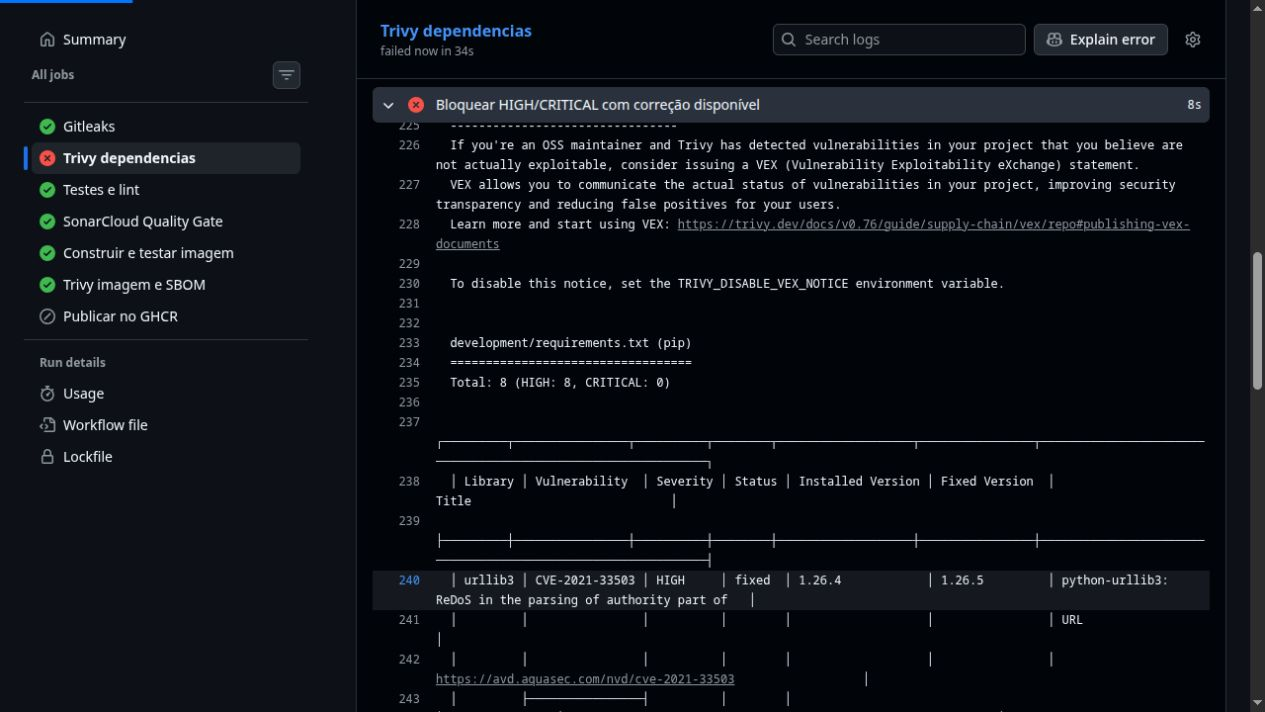
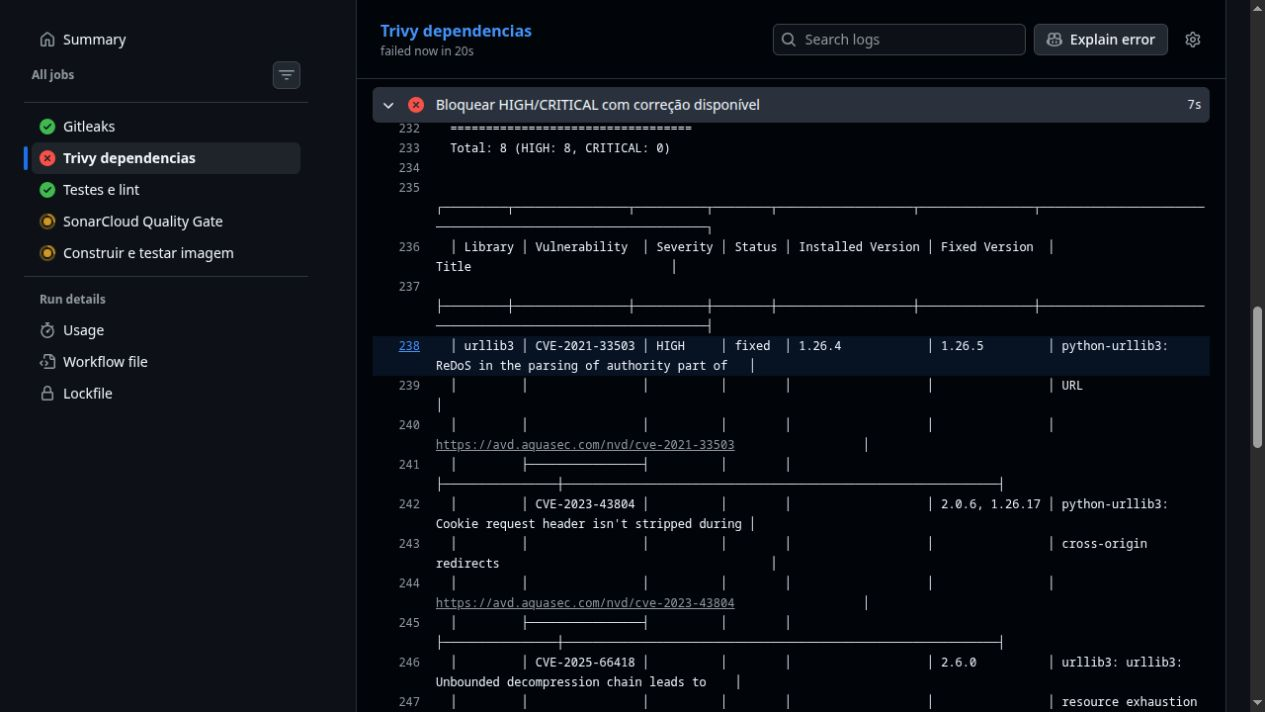
fix: corrigir urllib3 e atualizar demonstracao de seguranca

diff --git a/docs/evidencias.md b/docs/evidencias.md
@@ -6,14 +6,13 @@ Data: 27/10/2026 (America/Sao_Paulo).
 
 - [Repositório](https://github.com/youserz/devopsPratica).
 - [Workflow YAML](https://github.com/youserz/devopsPratica/blob/main/.github/workflows/ci.yml).
-- [PR de implementação #1](https://github.com/youserz/devopsPratica/pull/1), integrado após aprovação dos checks.
 - [Primeira execução](https://github.com/youserz/devopsPratica/actions/runs/40595101752).
 - [Execução da main com publicação no GHCR](https://github.com/youserz/devopsPratica/actions/runs/40595459804).
 - Projeto SonarCloud: [youserz_devopsPratica](https://sonarcloud.io/summary/new_code?id=youserz_devopsPratica).
 
 ## Bloqueio de vulnerabilidade corrigível
 
-[PR #2](https://github.com/youserz/devopsPratica/pull/2), branch `demonstracao-cve`.
+[PR #3](https://github.com/youserz/devopsPratica/pull/3), branch `demonstracao-seguranca`.
 
 A versão `urllib3==1.26.4` foi introduzida apenas nas dependências de desenvolvimento.
 A CVE-2021-33503 tem severidade HIGH e correção em 1.26.5, conforme o
@@ -21,9 +20,9 @@ A CVE-2021-33503 tem severidade HIGH e correção em 1.26.5, conforme o
 O relatório encontrou também outras vulnerabilidades HIGH nessa versão antiga.
 A correção usa 2.8.0, evitando restaurar apenas a correção mínima de uma CVE.
 
-- Commit vulnerável com scanner corrigido: `650a8f095742a2a4ad95724ca2fda120053be116`.
-- [Execução reprovada](https://github.com/youserz/devopsPratica/actions/runs/40595833798).
-- [Log Trivy](https://github.com/youserz/devopsPratica/actions/runs/40595833798/job/122511386443).
+- Commit vulnerável: `276743f6061b881e53bee8e3a59321e35a1602d0`.
+- [Execução reprovada](https://github.com/youserz/devopsPratica/actions/runs/40608578318).
+- [Log Trivy](https://github.com/youserz/devopsPratica/actions/runs/40608578318/job/122554182342).
 
 Trecho real da execução:
 
@@ -86,17 +85,5 @@ O scanner aguarda o Quality Gate e retorna falha se ele reprovar.
 
 ## Aprovação após corrigir a dependência
 
-A versão vulnerável foi restaurada para `urllib3==2.8.0` no mesmo PR.
-- Commit corrigido: `57d0902`.
-- [Execução aprovada após correção](https://github.com/youserz/devopsPratica/actions/runs/40596202621).
-- [Trivy dependências aprovado](https://github.com/youserz/devopsPratica/actions/runs/40596202621/job/122512621822).
-- [SBOM e relatórios da versão corrigida](https://github.com/youserz/devopsPratica/actions/runs/40596202621#artifacts).
-
-Todos os seis checks obrigatórios passaram. O job de publicação foi ignorado por
-ser um PR, conforme a regra de publicação exclusiva de pushes na main.
-
-![Execução aprovada após corrigir urllib3](../evidencias/devsecops/correcao-aprovada.png)
-
-![Artifacts da execução corrigida](../evidencias/devsecops/artifacts-corrigidos.png)
-
-![Checks obrigatórios na proteção da main](../evidencias/devsecops/protecao-main.png)
+A dependência foi restaurada para `urllib3==2.8.0` no mesmo PR #3.
+As execuções e artifacts estão disponíveis na aba Checks do PR.

diff --git a/docs/README.md b/docs/README.md
@@ -35,7 +35,7 @@ Artifacts: `gitleaks`, `cobertura`, `trivy-dependencias`, `trivy-imagem`, `sbom-
 ## Demonstração
 
 As evidências reais e links de execuções estão em [evidencias.md](evidencias.md).
-O PR #2 da branch `demonstracao-cve` introduziu urllib3 1.26.4 no arquivo de
+O PR #3 da branch `demonstracao-seguranca` introduziu urllib3 1.26.4 no arquivo de
 dependências de desenvolvimento para demonstrar o bloqueio. CVE-2021-33503 possui correção em 1.26.5.
 O relatório e o merge bloqueado foram capturados. A versão foi corrigida para
 2.8.0 no mesmo PR, e todos os checks passaram na execução posterior.
